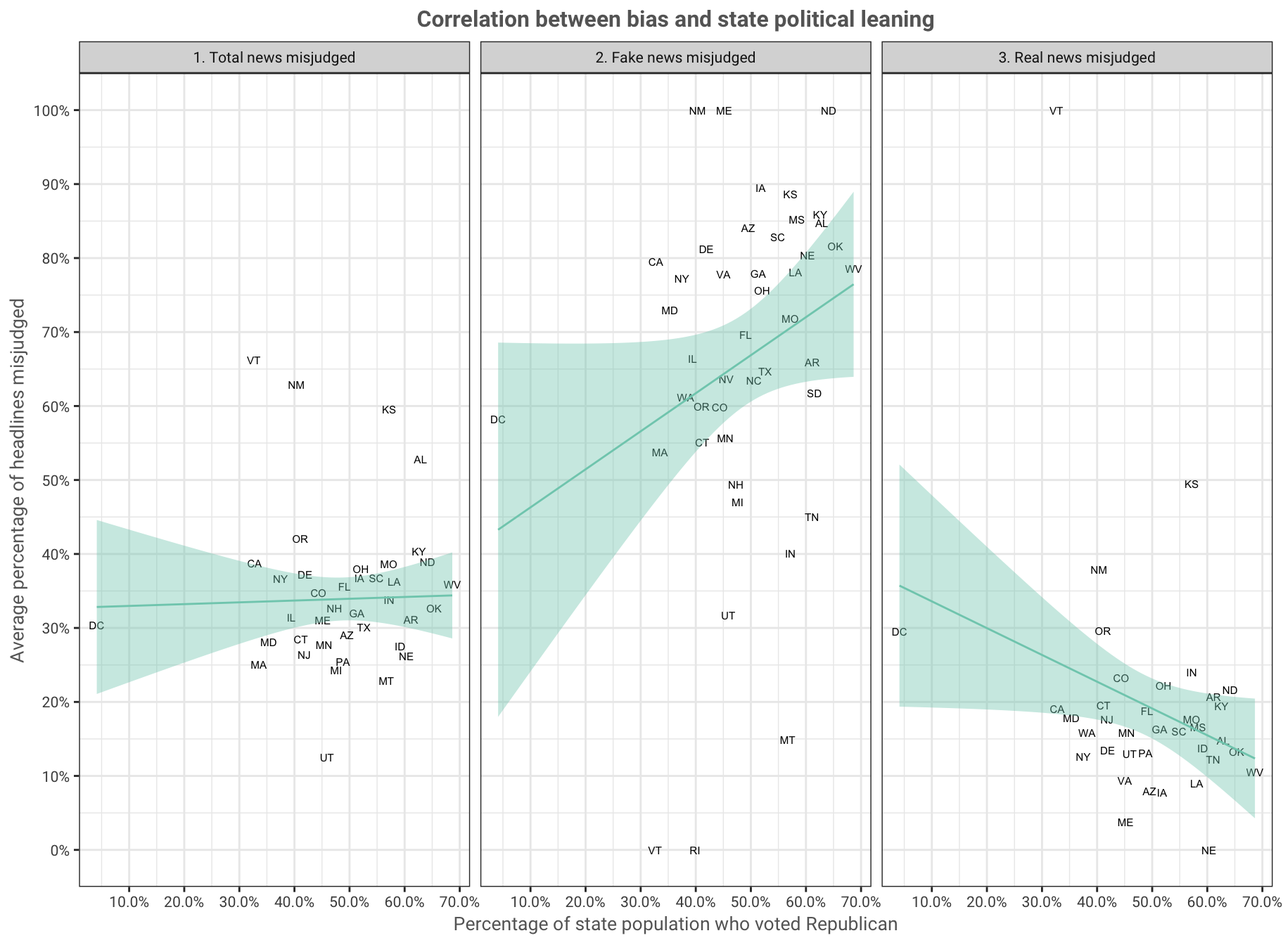
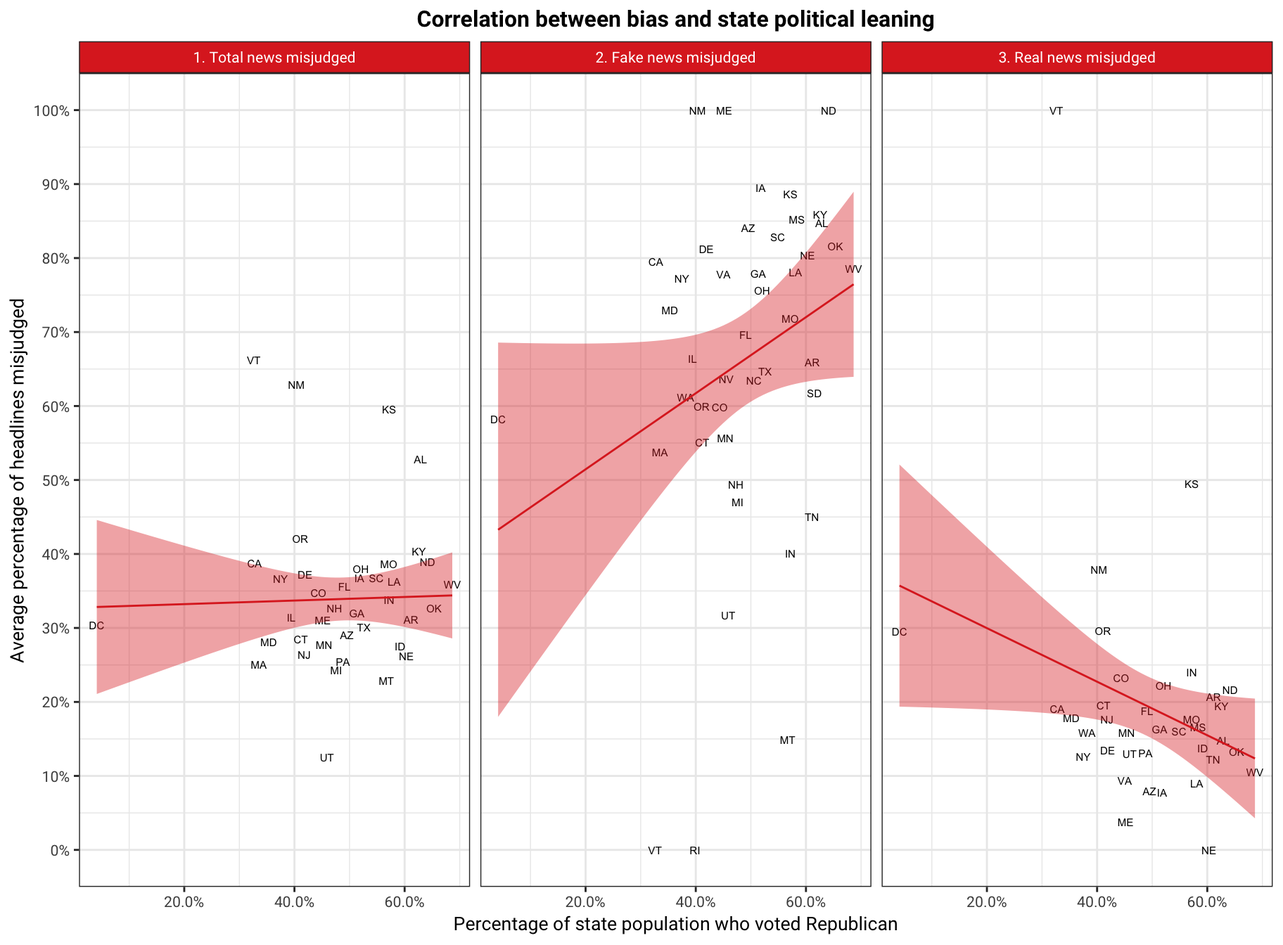
Add files via upload

diff --git a/docs/more_info_joan.html b/docs/more_info_joan.html
@@ -218,7 +218,7 @@ $(document).ready(function ()  {
 
     // establish options
     var options = {
-      selectors: "h1,h2,h3",
+      selectors: "h1,h2",
       theme: "bootstrap3",
       context: '.toc-content',
       hashGenerator: function (text) {
@@ -353,31 +353,32 @@ div.tocify {
 <!--
 Comments in HTML are like this! 
 -->
-<!--
-CREATE BASE MAP THAT SPLITS THE US INTO REGIONS FOR VISUALIZATION 1
-Adapted from: https://gis.stackexchange.com/questions/141181/how-to-create-a-us-map-in-r-with-separation-between-states-and-clear-labels
--->
-<!--
-DATA WRANGLING OF BUZZFEED SURVEY RESULTS
--->
-<div class="sourceCode"><pre class="sourceCode r"><code class="sourceCode r"><span class="co"># Select the needed columns for merging </span>
+<div class="sourceCode"><pre class="sourceCode r"><code class="sourceCode r"><span class="co"># select the needed columns for merging </span>
 raw_data &lt;-<span class="st"> </span>raw_data <span class="op">%&gt;%</span>
-<span class="st">  </span><span class="kw">select</span>(ID, HCAL_REGION1_Label_US, resp_gender, resp_age, DWD4, DWD5, DWD6, DWD1)
+<span class="st">  </span><span class="kw">select</span>(ID, HCAL_REGION1_Label_US, HADD_ZipCode_US, HCAL_AGGLO_CODE_US, HCAL_AGGLO_CODE_Label_US,  HCAL_STDREGION_4CODES_Label_US, DP_ETHNICITY_BAN, resp_gender,resp_age,US09KID,CurrentYear, DWD4, DWD5, GRID_DWD9_1_DWD9, GRID_DWD9_5_DWD9, DWD10, DWD6, DWD1, HCAL_REGION1_Label_US)
 
-<span class="co"># Inner join the 2 datasets</span>
+<span class="co"># inner join the 2 datasets</span>
 joined_data &lt;-<span class="st"> </span>headline_responses <span class="op">%&gt;%</span>
 <span class="st">  </span><span class="kw">inner_join</span>(raw_data, <span class="dt">by =</span> <span class="st">&quot;ID&quot;</span>)
 
-<span class="co"># Data wrangling for the joined datset</span>
+<span class="co"># rename the variables </span>
+<span class="co"># create column names that have meaning</span>
+<span class="co"># change the value of political parties</span>
 joined_data &lt;-<span class="st"> </span>joined_data <span class="op">%&gt;%</span>
-<span class="st">  </span><span class="co"># Select only instances where respondents recall a news headline</span>
-<span class="st">  </span><span class="kw">filter</span>(recalled <span class="op">==</span><span class="st"> &quot;yes&quot;</span>) <span class="op">%&gt;%</span>
-<span class="st">  </span><span class="co"># rename the variables</span>
 <span class="st">  </span><span class="kw">rename</span>( <span class="dt">US_states =</span> HCAL_REGION1_Label_US,
+          <span class="dt">US_cities =</span> HCAL_AGGLO_CODE_Label_US,
+          <span class="dt">US_regions =</span> HCAL_STDREGION_4CODES_Label_US,
+          <span class="dt">no_kids =</span> US09KID,
           <span class="dt">party_affiliation =</span> DWD4,
           <span class="dt">if_voted =</span> DWD5,
-          <span class="dt">political_party =</span> DWD1) <span class="op">%&gt;%</span>
-<span class="st">  </span><span class="co"># create new variables to reflect age group, political party, president choice</span>
+          <span class="dt">Facebook =</span> GRID_DWD9_1_DWD9,
+          <span class="dt">Twitter =</span> GRID_DWD9_5_DWD9,
+          <span class="dt">frequency_onlinenews_sharing =</span> DWD10,
+          <span class="dt">political_party =</span> DWD1)
+
+<span class="co"># creating new column that contains created variables</span>
+joined_data &lt;-<span class="st"> </span>joined_data <span class="op">%&gt;%</span>
+<span class="st">  </span><span class="co"># determine the different age groups</span>
 <span class="st">  </span><span class="kw">mutate</span>(<span class="dt">age_group =</span> <span class="kw">case_when</span>(resp_age <span class="op">%in%</span><span class="st"> </span><span class="kw">c</span>(<span class="dv">94</span><span class="op">:</span><span class="dv">108</span>) <span class="op">~</span><span class="st"> &quot;GREATEST GENERATION&quot;</span>,
                                resp_age <span class="op">%in%</span><span class="st"> </span><span class="kw">c</span>(<span class="dv">73</span><span class="op">:</span><span class="dv">93</span>) <span class="op">~</span><span class="st"> &quot;SILENT GENERATION&quot;</span>,
                                resp_age <span class="op">%in%</span><span class="st"> </span><span class="kw">c</span>(<span class="dv">72</span><span class="op">:</span><span class="dv">54</span>) <span class="op">~</span><span class="st"> &quot;BABY BOOMERS&quot;</span>,
@@ -389,6 +390,7 @@ joined_data &lt;-<span class="st"> </span>joined_data <span class="op">%&gt;%</s
                                  <span class="st">&quot;BABY BOOMERS&quot;</span>,
                                  <span class="st">&quot;GEN X&quot;</span>,
                                  <span class="st">&quot;MILLENIALS&quot;</span>),
+         <span class="co"># use case when to replace the row values of the political_party column</span>
          <span class="dt">political_party =</span> <span class="kw">case_when</span>(political_party <span class="op">==</span><span class="st"> &quot;1&quot;</span> <span class="op">~</span><span class="st"> &quot;Democrat&quot;</span>,
                                      political_party <span class="op">==</span><span class="st"> &quot;2&quot;</span> <span class="op">~</span><span class="st"> &quot;Republican&quot;</span>,
                                      political_party <span class="op">==</span><span class="st"> &quot;3&quot;</span> <span class="op">~</span><span class="st"> &quot;Independent&quot;</span>,
@@ -398,76 +400,22 @@ joined_data &lt;-<span class="st"> </span>joined_data <span class="op">%&gt;%</s
                                        <span class="st">&quot;Democrat&quot;</span>,
                                        <span class="st">&quot;Independent&quot;</span>,
                                        <span class="st">&quot;Other&quot;</span>),
-         <span class="dt">DWD6 =</span> <span class="kw">replace_na</span>(DWD6, <span class="dv">0</span>),
+         <span class="co"># change the row values of DWD6 to match the president names</span>
          <span class="dt">presidential_candidate =</span> <span class="kw">case_when</span>(DWD6 <span class="op">==</span><span class="st"> </span><span class="dv">1</span> <span class="op">~</span><span class="st"> &quot;Hillary Clinton&quot;</span>,
                                             DWD6 <span class="op">==</span><span class="st"> </span><span class="dv">2</span> <span class="op">~</span><span class="st"> &quot;Donald Trump&quot;</span>,
                                             DWD6 <span class="op">==</span><span class="st"> </span><span class="dv">3</span> <span class="op">~</span><span class="st"> &quot;Gary Johnson&quot;</span>,
                                             DWD6 <span class="op">==</span><span class="st"> </span><span class="dv">4</span> <span class="op">~</span><span class="st"> &quot;Jill Stein&quot;</span>,
-                                            DWD6 <span class="op">==</span><span class="st"> </span><span class="dv">5</span> <span class="op">~</span><span class="st"> &quot;Other&quot;</span>,
-                                            DWD6 <span class="op">==</span><span class="st"> </span><span class="dv">0</span> <span class="op">~</span><span class="st"> &quot;Did not vote&quot;</span>),
+                                            DWD6 <span class="op">==</span><span class="st"> </span><span class="dv">5</span> <span class="op">~</span><span class="st"> &quot;Other&quot;</span>),
          <span class="dt">presidential_candidate =</span> <span class="kw">fct_relevel</span>(presidential_candidate,
                                               <span class="st">&quot;Donald Trump&quot;</span>,
                                               <span class="st">&quot;Hillary Clinton&quot;</span>,
                                               <span class="st">&quot;Gary Johnson&quot;</span>,
                                               <span class="st">&quot;Jill Stein&quot;</span>,
-                                              <span class="st">&quot;Other&quot;</span>,
-                                              <span class="st">&quot;Did not vote&quot;</span>),
-         <span class="co"># Create variable wrong_or_not that determines if the respondent </span>
-         <span class="co"># judge a headline correctly. 1 for wrong, 0 for correct</span>
-         <span class="dt">wrong_or_not =</span> <span class="kw">ifelse</span>(accuracy_bool <span class="op">==</span><span class="st"> </span>is_fake, <span class="dv">1</span>, <span class="dv">0</span>),
-         <span class="co"># Create variable abbr for state abbreviation</span>
-         <span class="dt">abbr =</span> <span class="kw">state2abbr</span>(US_states),
-         <span class="co"># Format US_states to lower case</span>
-         <span class="dt">US_states =</span> <span class="kw">tolower</span>(US_states))
-
-<span class="co"># Create new dataframe with percentage headlines judged wrongly per respondent</span>
-avg_wrong_responses &lt;-<span class="st"> </span>joined_data <span class="op">%&gt;%</span>
-<span class="st">  </span><span class="co"># Calculate the percentage of wrong responses</span>
-<span class="st">  </span><span class="kw">group_by</span>(ID, US_states, abbr, resp_gender, 
-           age_group, presidential_candidate, political_party) <span class="op">%&gt;%</span>
-<span class="st">  </span><span class="kw">summarize</span>(<span class="dt">wrong_count =</span> <span class="kw">sum</span>(wrong_or_not),
-            <span class="dt">total =</span> <span class="kw">n</span>(),
-            <span class="dt">percentage_wrong =</span> wrong_count<span class="op">/</span>total)
-
-<span class="co"># Data wrangling of for Visualization 1: choropleth map</span>
-map_data &lt;-<span class="st"> </span>avg_wrong_responses <span class="op">%&gt;%</span>
-<span class="st">  </span><span class="kw">group_by</span>(US_states, abbr) <span class="op">%&gt;%</span>
-<span class="st">  </span><span class="kw">summarize</span>(<span class="dt">state_average =</span> <span class="kw">mean</span>(percentage_wrong),
-            <span class="dt">state_average_discrete =</span> <span class="kw">cut</span>(state_average,
-                                         <span class="dt">breaks =</span> <span class="kw">c</span>(<span class="fl">0.1</span>, <span class="fl">0.2</span>, <span class="fl">0.3</span>, <span class="fl">0.4</span>, <span class="fl">0.5</span>, <span class="dv">1</span>),
-                                         <span class="dt">labels =</span> <span class="kw">c</span>(<span class="st">&quot;10% - 20%&quot;</span>, <span class="st">&quot;20% - 30%&quot;</span>,
-                                                    <span class="st">&quot;30% - 40%&quot;</span>, <span class="st">&quot;40% - 50%&quot;</span>, <span class="st">&quot;Over 50%&quot;</span>))) <span class="op">%&gt;%</span>
-<span class="st">  </span><span class="kw">inner_join</span>(us.map, <span class="dt">by =</span> <span class="kw">c</span>(<span class="st">&quot;US_states&quot;</span> =<span class="st"> &quot;region&quot;</span>))
-
-<span class="co"># Data wrangling for Visualization 2: Plot of political bias by age group &amp; political party </span>
-<span class="co"># Group by age groups and political party</span>
-wrong_per_age &lt;-<span class="st"> </span>avg_wrong_responses <span class="op">%&gt;%</span>
-<span class="st">  </span><span class="co"># Calculate the percentage of wrong responses</span>
-<span class="st">  </span><span class="kw">group_by</span>(age_group, political_party) <span class="op">%&gt;%</span>
-<span class="st">  </span><span class="kw">summarize</span>(<span class="dt">mean_wrong =</span> <span class="kw">mean</span>(percentage_wrong),
-            <span class="dt">mean_wrong =</span> <span class="kw">round</span>(mean_wrong, <span class="dt">digits =</span> <span class="dv">2</span>))
-
-<span class="co">#Calculate the mean percentage wrong for each generation</span>
-perc_wrong_per_age &lt;-<span class="st"> </span>avg_wrong_responses <span class="op">%&gt;%</span>
-<span class="st">  </span><span class="kw">group_by</span>(age_group) <span class="op">%&gt;%</span>
-<span class="st">  </span><span class="kw">summarize</span>(<span class="dt">gen_wrong =</span> <span class="kw">mean</span>(percentage_wrong)) <span class="op">%&gt;%</span>
-<span class="st">  </span><span class="kw">mutate</span>(<span class="dt">gen_wrong =</span> <span class="kw">round</span>(gen_wrong, <span class="dt">digits =</span> <span class="dv">2</span>))</code></pre></div>
-<!--
-MAIN BODY STARTS HERE
--->
-<div id="introduction-of-dataset" class="section level2">
-<h2>Introduction of dataset</h2>
-<p>The survey was conducted as a collaboration between Buzzfeed and Ipsos on 3015 respondents. Each respondent was asked whether they recall any headlines from a mix of real and fake news.</p>
-<p>The fake headlines include:<br />
-* Pope Francis Shocks the World, Endorses Donald Trump for president, Releases Statement. * Donald Trump Sent His Own Plane To Transport 200 Stranded Marines. * FBI Agent Suspected in Hillary Email Leaks Found Dead in Apparent Murder Suicide. * Donald Trump Protestor Speaks Out: I was paid $3.500 to Protest Trump’s Rally.<br />
-* FBI Director Comey Just Put a Trump Sign On His Front Lawn.</p>
-<p>The real headlines include: * Melania Trump’s Girl-on-Girl Photos From Racy Shoot Revealed * Barbara Bush: “I don’t know how women can vote” for Trump * Donald Trump Says He’d ‘Absolutely’ Require Muslims to Register * Trump: “I Will Protect Our LGBTQ Citizens” * I Ran the C.I.A Now I’m Endorsing Hillary Clinton * Donald Trump on Refusing Presidential Salary: “I’m not taking it”</p>
-<p>They were then asked to determine if that headline is true or false. Out of all the respondents, 1909 of them recalled at least one headline. We analyzed their responses to determine what factors may have a correlation with people’s wrong perception of news.</p>
-</div>
-<div id="bias-by-geographic-region" class="section level2">
-<h2>Bias By Geographic Region</h2>
-<p>The following choropleth map gives an overview of how much an average person from each state misjudge news headlines (i.e. They consider fake news true or real news false). States are split up by their respective regions (in clockwise order from the top left: West, Midwest, Northeast, Southeast, and Southwest). Interestingly, Utah and Nebraska are the states where people seem to have the best perception of news accuracy. In contrast, the five states with the highest percentage of misjudged news are Kansas, New Mexico, Vermont and Alabama. These are a mixture of red and blue state, and each belonging to a different region.</p>
-<p>Clearly, no matter which region of the US we are looking at, people are prone to misjudge headlines they see. Thus, we decided to look deeper into the survey data and examine the individual characteristics of the respondents in an attempt to determine what type of person is more vulnerable to fake news.</p>
+                                              <span class="st">&quot;Other&quot;</span>))</code></pre></div>
+<div id="regions-in-the-usa-are-all-prone-to-misjudge-news-headlines" class="section level1">
+<h1>Regions in the USA are all prone to misjudge news headlines</h1>
+<p>The following choropleth map gives an overview of how much an average person from each state misjudge news headlines. States are split up by their respective regions (in clockwise order from the top left: West, Midwest, Northeast, Southeast, and Southwest). Interestingly, Utah is the state where people seem to have the best perception of news accuracy. In contrast, the five states with the highest percentage of misjudged news are Wyoming, Kansas, New Mexico, Vermont and Alabama. These are a mixture of red and blue state, and each belonging to one of the five different regions.<br />
+Clearly, no matter which region of the US we are looking at, people are prone to misjudge headlines they see. Thus, we decided to look deeper into the survey data and examine the individual characteristics of the respondents in an attempt to determine what type of person is more vulnerable to fake news.</p>
 <div class="sourceCode"><pre class="sourceCode r"><code class="sourceCode r"><span class="co"># Plot choropleth map</span>
 <span class="kw">ggplot</span>(map_data,  
        <span class="kw">aes</span>(<span class="dt">x =</span> long.transp, <span class="dt">y =</span> lat.transp), <span class="dt">colour =</span> <span class="st">&quot;white&quot;</span>) <span class="op">+</span><span class="st"> </span>
@@ -486,42 +434,62 @@ MAIN BODY STARTS HERE
     <span class="dt">axis.title =</span> <span class="kw">element_blank</span>(),
     <span class="dt">axis.ticks =</span> <span class="kw">element_blank</span>(),
     <span class="dt">axis.text =</span> <span class="kw">element_blank</span>())</code></pre></div>
-<p><img src="more_info_files/figure-html/unnamed-chunk-4-1.png" width="960" /></p>
+<p><img src="more_info_joan_files/figure-html/unnamed-chunk-4-1.png" width="960" /></p>
 </div>
-<div id="bias-by-political-party-affiliation-across-age-groups" class="section level2">
-<h2>Bias By Political Party Affiliation Across Age Groups</h2>
-<p>As the findings from this <a href="/index.html">scatterplot</a> suggested, the more strongly republican a state is, the more susceptible they were to believing fake news and the opposite applied to Democratic states. We sought to find out if there was any correlation between the percentage of headlines respondents got wrong and the political party they associated with (also taking into account non-Democratic and non-Republican parties) across different age groups.</p>
-<p>We selected data for the 1909 respondents who recalled at least one headline and split the respondents into 5 age groups. Out of these respondents, the greatest generation had the smallest population of 2 people (which is understandable given their age, but the small sample size makes any insight for this group not meaningful) and millenials was the biggest age group with 763 total respondents. The Silent generation had 101 respondents, the Baby Boomer generation had 595 people and lastly Gen X had 448 respondents.</p>
-<p>A comparison of total bias across the age groups confirmed that Republicans and respondents affiliated with “Other” political parties generally had the highest percentage of wrong responses across the age groups, followed by Democrats and, lastly, respondents self-identified as independent voters.</p>
-<div class="sourceCode"><pre class="sourceCode r"><code class="sourceCode r"><span class="co"># Create a plot that shows bias by Political party affiliation across age groups</span>
+<div id="fake-news-bias-by-political-party-affiliation-across-age-groups" class="section level1">
+<h1>Fake news Bias by Political Party Affiliation across age groups</h1>
+<p>As the findings from the choropleth map suggested, the more strongly republican a state is, the more susceptible they were to believing fake news and the opposite applied to Democratic states. We sought to find out if there was any correlation between the percentage of headlines respondents got wrong (i.e. either fake news believed to be true or real news believed to be false) and the political party they associated with (taking into account non-Democratic and non-Republican parties) across different age groups.</p>
+<p>Our dataset contained information for: 1619 Democrats<br />
+1465 Republicans<br />
+952 respondents affiliated with Other parties and<br />
+99 individuals affiliated with Independent parties.</p>
+<p>We selected data for the respondents who recalled seeing certain headlines and split the respondents into 5 age groups.<br />
+The greatest generation had the smallest population of 6 people and millenials was the biggest age group with 1899 total respondents. The Silent generation had 180 respondents, the Baby Boomer generation had 1134 people and lastly Gen X had 916 respondents.<br />
+A comparison of total bias across the age groups confirmed that Republicans and respondents affiliated with “Other” political Parties generally had the highest percentage of wrong responses across the age groups, followed by Democrats and lastly respondents affiliated with Independent Parties.</p>
+<div class="sourceCode"><pre class="sourceCode r"><code class="sourceCode r"><span class="co"># create a dataset</span>
+<span class="co"># filtered based on recalled news headlines</span>
+<span class="co"># create new columns for percentage of wrong responses</span>
+<span class="co"># grouped by age groups</span>
+avg_wrong_responses &lt;-<span class="st"> </span>joined_data <span class="op">%&gt;%</span>
+<span class="st">  </span><span class="kw">filter</span>(recalled <span class="op">==</span><span class="st"> &quot;yes&quot;</span>) <span class="op">%&gt;%</span>
+<span class="st">  </span><span class="co"># Calculate the percentage of wrong responses</span>
+<span class="st">  </span><span class="kw">mutate</span>(<span class="dt">wrong_or_not =</span> <span class="kw">ifelse</span>(accuracy_bool <span class="op">==</span><span class="st"> </span>is_fake, <span class="dv">1</span>, <span class="dv">0</span>)) <span class="op">%&gt;%</span>
+<span class="st">  </span><span class="kw">group_by</span>(ID, Weightvar) <span class="op">%&gt;%</span>
+<span class="st">  </span><span class="kw">mutate</span>(<span class="dt">wrong_count =</span> <span class="kw">sum</span>(wrong_or_not),
+         <span class="dt">total =</span> <span class="kw">n</span>(),
+         <span class="dt">percentage_wrong =</span> wrong_count<span class="op">/</span>total) <span class="op">%&gt;%</span>
+<span class="st">  </span><span class="kw">group_by</span>(age_group, political_party) <span class="op">%&gt;%</span>
+<span class="st">  </span><span class="kw">mutate</span>(<span class="dt">mean_wrong =</span> <span class="kw">mean</span>(percentage_wrong),
+         <span class="dt">mean_wrong =</span> <span class="kw">round</span>(mean_wrong, <span class="dt">digits =</span> <span class="dv">2</span>)) 
+
+<span class="co">#Calculate the mean percentage wrong for each generation</span>
+perc_wrong_per_age &lt;-<span class="st"> </span>avg_wrong_responses <span class="op">%&gt;%</span>
+<span class="st">  </span><span class="kw">group_by</span>(age_group) <span class="op">%&gt;%</span>
+<span class="st">  </span><span class="kw">summarize</span>(<span class="dt">gen_wrong =</span> <span class="kw">mean</span>(percentage_wrong)) <span class="op">%&gt;%</span>
+<span class="st">  </span><span class="kw">mutate</span>(<span class="dt">gen_wrong =</span> <span class="kw">round</span>(gen_wrong, <span class="dt">digits =</span> <span class="dv">2</span>))
+
+<span class="co"># create a plot that shows bias by Political party affiliation across age groups</span>
 <span class="kw">ggplot</span>() <span class="op">+</span>
-<span class="st">  </span><span class="kw">geom_col</span>(<span class="dt">data =</span> wrong_per_age, <span class="dt">position=</span><span class="st">&quot;dodge&quot;</span>, 
-           <span class="kw">aes</span>(<span class="dt">x =</span> age_group, <span class="dt">y =</span> mean_wrong, <span class="dt">fill =</span> political_party)) <span class="op">+</span>
-<span class="st">  </span><span class="kw">geom_boxplot</span>(<span class="dt">data =</span> perc_wrong_per_age, 
-               <span class="kw">aes</span>(<span class="dt">x =</span> age_group, <span class="dt">y =</span> gen_wrong)) <span class="op">+</span>
-<span class="st">  </span><span class="kw">geom_text</span>(<span class="dt">data =</span> perc_wrong_per_age, 
-            <span class="kw">aes</span>(<span class="dt">label =</span> <span class="kw">paste</span>(gen_wrong<span class="op">*</span><span class="dv">100</span>, <span class="st">&#39;%&#39;</span>),
-                <span class="dt">x =</span> age_group, <span class="dt">y =</span> gen_wrong <span class="op">+</span><span class="st"> </span><span class="fl">0.03</span>)) <span class="op">+</span>
-<span class="st">  </span><span class="kw">labs</span>(<span class="dt">x =</span> <span class="st">&quot;Age group&quot;</span>, <span class="dt">y =</span> <span class="st">&quot;Average percentage of headlines misjudged by respondents in each group&quot;</span>, 
+<span class="st">  </span><span class="kw">geom_col</span>(<span class="dt">data =</span> avg_wrong_responses, <span class="dt">position=</span><span class="st">&quot;dodge&quot;</span>, <span class="kw">aes</span>(<span class="dt">x =</span> age_group, <span class="dt">y =</span> mean_wrong, <span class="dt">fill =</span> political_party)) <span class="op">+</span>
+<span class="st">  </span><span class="kw">geom_boxplot</span>(<span class="dt">data =</span> perc_wrong_per_age, <span class="kw">aes</span>(<span class="dt">x =</span> age_group, <span class="dt">y =</span> gen_wrong)) <span class="op">+</span>
+<span class="st">  </span><span class="kw">geom_text</span>(<span class="dt">data =</span> perc_wrong_per_age, <span class="kw">aes</span>(<span class="dt">label =</span> gen_wrong, <span class="dt">x =</span> age_group, <span class="dt">y =</span> gen_wrong<span class="op">+</span><span class="fl">0.03</span>)) <span class="op">+</span>
+<span class="st">  </span><span class="kw">labs</span>(<span class="dt">x =</span> <span class="st">&quot;Age group&quot;</span>, <span class="dt">y =</span> <span class="st">&quot;Percentage of Wrong Responses&quot;</span>, 
        <span class="dt">title =</span> <span class="st">&quot;Bias by Political party affiliatiton across age groups&quot;</span>,
        <span class="dt">fill =</span> <span class="st">&quot;Respondent&#39;s Political Party&quot;</span>) <span class="op">+</span>
 <span class="st">  </span><span class="kw">scale_fill_manual</span>(<span class="dt">values =</span> <span class="kw">c</span>(<span class="st">&quot;Red&quot;</span>,<span class="st">&quot;Blue&quot;</span>,<span class="st">&quot;Purple&quot;</span>,<span class="st">&quot;Gray&quot;</span>)) <span class="op">+</span>
-<span class="st">  </span><span class="kw">scale_y_continuous</span>(<span class="dt">labels =</span> percent, <span class="dt">breaks=</span><span class="kw">seq</span>(<span class="dv">0</span>, <span class="dv">1</span>, .<span class="dv">1</span>)) <span class="op">+</span>
 <span class="st">  </span><span class="co"># change the title and axes size</span>
-<span class="st">  </span><span class="kw">theme_bw</span>() <span class="op">+</span>
-<span class="st">  </span><span class="kw">theme</span>(<span class="dt">text =</span> <span class="kw">element_text</span>(<span class="dt">size =</span> <span class="dv">10</span>, <span class="dt">family =</span> <span class="st">&quot;Roboto&quot;</span>),
+<span class="st">  </span><span class="kw">theme</span>(<span class="dt">text =</span> <span class="kw">element_text</span>(<span class="dt">size =</span> <span class="dv">10</span>),
         <span class="dt">plot.title =</span> <span class="kw">element_text</span>(<span class="dt">hjust =</span> <span class="fl">0.5</span>, <span class="dt">size =</span> <span class="dv">12</span>, <span class="dt">face =</span> <span class="st">&quot;bold&quot;</span>),
-        <span class="dt">legend.text=</span><span class="kw">element_text</span>(<span class="dt">size =</span> <span class="dv">8</span>, <span class="dt">family =</span> <span class="st">&quot;Roboto&quot;</span>),
         <span class="dt">axis.title.x =</span> <span class="kw">element_text</span>(<span class="dt">size =</span> <span class="dv">12</span>),
         <span class="dt">axis.title.y =</span> <span class="kw">element_text</span>(<span class="dt">size =</span> <span class="dv">12</span>))</code></pre></div>
-<p><img src="more_info_files/figure-html/unnamed-chunk-5-1.png" width="960" /></p>
-<p>The reason why Republicans had such high bias is probably because most of the headlines posed by the survey is pro-Donald Trump and anti-Hillary Clinton, regardless of whether the headline are fake news or not. This does raise a question toward the reliability of the survey conducted by Buzzfeed! Because of this bias in the survey question, Trump supporters were likely to believe most of the news to be true and Democrats were more likely to be dubious. However, independent voters and individuals associated with other parties were not in support of either Donald Trump of Hillary Clinton. It seems that they are more likely to be swayed in the pro-Trump, anti-Hillary direction.</p>
-<p>The values indicated on the plot also show the average percentage of headlines wrongly perceived for each age group and we can see that bias was high for the older age groups, then became low for the middle lying age groups, and then went high again for the younger groups. However, the data for the Greatest Generation must be taken with a grain of salt, given that only 2 respondents recalled any headlines.</p>
-<p>Some studies have suggested that a reason for this could be social media usage across the different age groups. According to Statista, Millenials are the largest social media users with 88% of Millennials using some form of social media platform everyday. Only 37% of individuals above 65 years use social media and this could mean that most of them are not well informed about current political affairs and so become more susceptible to believing nearly anything they hear. However, Millenials use too much social media and chances of them accessing fake news are highly likely.</p>
-<p>We further look into the differences, if any exists, between people who believed in fake news vs people who believed in real news and whom they voted for in the 2016 presidential elections.</p>
+<p><img src="more_info_joan_files/figure-html/unnamed-chunk-5-1.png" width="960" /></p>
+<p>The reason why Republicans had such high bias is probably because most of the headlines involving information on Donald Trump were mostly positive and those involving Hillary clinton were negative, hence Trump supporters were most likely to believe most of the news to be true and Democrats were most likely to be dubious. However, individuals associated with Other and independent parties and were not in support of either Donald Trump of Hillary Clinton were then more likely to be swayed in the Republican direction if they had no strong beliefs on whether or not the news was accurate.<br />
+The values indicated on the plot show the average percentage wrong for each age group and we can see that bias was high for the older age groups, then became low for the middle lying age groups, and then went high again for the younger groups.<br />
+We believe that the main cause of this is social media usage across the different age groups. According to Statista, Millenials are the largest social media users with 88% of Millennials using some form of social media platform everyday. Only 37% of individuals above 65 years use social media and this could mean that most of them are not well informed about current political affairs and so become more susceptible to believing nearly anything they hear. However, Millenials use too much social media and chances of them accessing fake news are highly likely.<br />
+We further look into the differences, if any exists, between people who believed in fake news vs people who believed in real news and whom they voted for in the 2016 presidential elections.</p>
 </div>
-<div id="fake-news-presidential-elections" class="section level2">
-<h2>Fake News &amp; Presidential Elections</h2>
+<div id="fake-news-presidential-elections" class="section level1">
+<h1>Fake News &amp; Presidential Elections</h1>
 <p>“Does believing in Fake news being true affect the decision one made in electing presidents in the election of 2016?” is a question that we are interested to answer in this section. In answering this question, we have plotted a bar plot that shows which presidential candidate ended up having the most votes in the 2016 presidential elections based on people who recalled seeing the headlines before and believed the news to be accurate whether the headline was real or fake. Thus, our plot is faceted based on whether the news is fake or not so that we can see if fake news made any impact on the presidential candidate that was elected.</p>
 <div class="sourceCode"><pre class="sourceCode r"><code class="sourceCode r"><span class="co"># create a dataset</span>
 <span class="co"># filtered based on recalled news and being accurate</span>
@@ -542,8 +510,7 @@ presidential_data &lt;-<span class="st"> </span>joined_data <span class="op">%&g
 <span class="st">  </span><span class="co"># red - Republic, blue - Democrats</span>
 <span class="st">  </span><span class="co"># goldenrod4 - Libertarian party, darkolivegreen4 - green party</span>
 <span class="st">  </span><span class="co"># gray - others</span>
-<span class="st">  </span><span class="co"># steelblue - didn&#39;t vote</span>
-<span class="st">  </span><span class="kw">scale_fill_manual</span>(<span class="dt">values =</span> <span class="kw">c</span>(<span class="st">&quot;Red&quot;</span>, <span class="st">&quot;Blue&quot;</span>, <span class="st">&quot;goldenrod4&quot;</span>, <span class="st">&quot;darkolivegreen4&quot;</span>, <span class="st">&quot;gray&quot;</span>, <span class="st">&quot;steelblue&quot;</span>)) <span class="op">+</span>
+<span class="st">  </span><span class="kw">scale_fill_manual</span>(<span class="dt">values =</span> <span class="kw">c</span>(<span class="st">&quot;Red&quot;</span>, <span class="st">&quot;Blue&quot;</span>, <span class="st">&quot;goldenrod4&quot;</span>, <span class="st">&quot;darkolivegreen4&quot;</span>, <span class="st">&quot;gray&quot;</span>)) <span class="op">+</span>
 <span class="st">  </span><span class="co"># change the facet labels to fake news and real news</span>
 <span class="st">  </span><span class="kw">facet_grid</span>(. <span class="op">~</span><span class="st"> </span>is_fake, <span class="dt">labeller =</span> <span class="kw">labeller</span>(<span class="dt">is_fake =</span> <span class="kw">c</span>(<span class="dt">False =</span> <span class="st">&quot;True news&quot;</span>, <span class="dt">True =</span> <span class="st">&quot;False news&quot;</span>))) <span class="op">+</span>
 <span class="st">  </span><span class="kw">labs</span>(<span class="dt">title =</span> <span class="st">&quot;Distribution of votes among presidential candidates&quot;</span>, <span class="dt">x =</span> <span class="st">&quot;Presidential candidates&quot;</span>, <span class="dt">y =</span> <span class="st">&quot;Number of people&#39;s votes&quot;</span>) <span class="op">+</span>
@@ -552,7 +519,7 @@ presidential_data &lt;-<span class="st"> </span>joined_data <span class="op">%&g
         <span class="dt">plot.title =</span> <span class="kw">element_text</span>(<span class="dt">hjust =</span> <span class="fl">0.5</span>, <span class="dt">size =</span> <span class="dv">12</span>, <span class="dt">face =</span> <span class="st">&quot;bold&quot;</span>),
         <span class="dt">axis.title.x =</span> <span class="kw">element_text</span>(<span class="dt">size =</span> <span class="dv">12</span>),
         <span class="dt">axis.title.y =</span> <span class="kw">element_text</span>(<span class="dt">size =</span> <span class="dv">12</span>))</code></pre></div>
-<p><img src="more_info_files/figure-html/unnamed-chunk-6-1.png" width="960" /></p>
+<p><img src="more_info_joan_files/figure-html/unnamed-chunk-6-1.png" width="960" /></p>
 <p>From the bar plot above, we see that for news headlines that were real and people were able to identify the news as accurate, Hillary Clinton had the most votes compared to the rest of the candidates. We also see that Donald Trump and Hillary Clinton were the top two leading presidential candidates with Hillary Clinton having only 17 more votes compared to Donald Trump.<br />
 However, for the news headlines that were fake and people identified these headlines as accurate, Donald Trump ended up having the most votes compared to the rest of the presidential candidates. Even though Donald Trump and Hillary Clinton were the top two leading presidential candidates with more votes, there is a huge difference between the two candidates with Donald Trump having more than twice the votes that Hillary Clinton had.<br />
 The Fake news headlines include:<br />

diff --git a/docs/index.html b/docs/index.html
@@ -247,7 +247,7 @@ $(document).ready(function () {
 
 <h1 class="title toc-ignore">My Final Project</h1>
 <h4 class="author"><em>Melanie N, Ratie, Joan K</em></h4>
-<h4 class="date"><em>Last updated on 2018-12-18</em></h4>
+<h4 class="date"><em>Last updated on 2018-12-19</em></h4>
 
 </div>
 
@@ -255,10 +255,16 @@ $(document).ready(function () {
 <!--
 Comments in HTML are like this! 
 -->
+<div class="figure">
+<img src="fakenewsphoto.png" alt="Source: Krista Kennell / Stone / Catwalker / Shutterstock / The Atlantic" width="100%" />
+<p class="caption">
+Source: Krista Kennell / Stone / Catwalker / Shutterstock / The Atlantic
+</p>
+</div>
 <p>After the 2016 Presidential Election, the term “fake news” spread across America like wildfire. Craig Silverman, Buzzfeed’s media editor, was the first to notice the steady flow of news with zero ounce of truth coming from Eastern Europe, all centred around the election.<a href="#fn1" class="footnoteRef" id="fnref1"><sup>1</sup></a> Disturbingly, fake news might have influenced the outcome of the election. This is why we set out to determine: Who are the most vulnerable to fake news?</p>
 <p>We drew upon raw data from a 2016 survey jointly conducted by Buzzfeed and Ipsos on 3,015 adult in the US.<a href="#fn2" class="footnoteRef" id="fnref2"><sup>2</sup></a> Respondents were randomly asked whether they recall some headlines containing a mix of fake and real news. If they do, they were then asked to categorize the news as real or fake.</p>
 <p>We calculated the percentage of headlines that an average person from each state misjudged (i.e. either fake news believed as true or real news believed as false). This percentage varies greatly by state and does not really follow a geographical or political pattern. However, when data is split into fake news and real news, it appears that the more strongly republican a state is (as indicated by the percentage of its population who voted red in the 2016 presidential election), the more likely people there believe in fake news. On the contrary, the more strongly democratic a state is, the more skeptical people tend to be even when it comes to real news!</p>
-<p>If you’re interested in the numbers beyond state average, click here to read more about how perception of fake news differs by age group, political affiliation, and candidate choice!</p>
+<p>If you’re interested in the numbers beyond state average, click <a href="/more_info.html">here</a>. Accessed 17 Dec. 2018.] to read more about how perception of fake news differs by age group, political affiliation, and candidate choice!</p>
 <div class="sourceCode"><pre class="sourceCode r"><code class="sourceCode r"><span class="kw">ggplot</span>(wrangled_data_<span class="dv">4</span>, 
        <span class="kw">aes</span>(<span class="dt">x =</span> percentage_rep, <span class="dt">y =</span> state_average,
            <span class="dt">text =</span> <span class="kw">paste</span>(<span class="st">&#39;State: &#39;</span>, HCAL_REGION1_Label_US, 
@@ -267,9 +273,10 @@ Comments in HTML are like this!
                         <span class="st">&#39;%</span><span class="ch">\n</span><span class="st">Percentage voted Republican 2016: &#39;</span>,
                         percentage_rep<span class="op">*</span><span class="dv">100</span>,<span class="st">&#39;%&#39;</span>),<span class="dt">group =</span> <span class="dv">1</span>)) <span class="op">+</span>
 <span class="st">  </span><span class="kw">geom_text</span>(<span class="dt">label =</span> wrangled_data_<span class="dv">4</span><span class="op">$</span>abbr, <span class="dt">size =</span> <span class="dv">2</span>, <span class="dt">check_overlap =</span> T) <span class="op">+</span>
-<span class="st">  </span><span class="kw">geom_smooth</span>(<span class="dt">method =</span> <span class="st">&quot;lm&quot;</span>, <span class="dt">color =</span> <span class="st">&quot;#7fcdbb&quot;</span>, <span class="dt">size =</span> <span class="fl">0.5</span>, <span class="dt">fill =</span> <span class="st">&quot;#7fcdbb&quot;</span>) <span class="op">+</span>
+<span class="st">  </span><span class="kw">geom_smooth</span>(<span class="dt">method =</span> <span class="st">&quot;lm&quot;</span>, <span class="dt">color =</span> <span class="st">&quot;#de2d26&quot;</span>, <span class="dt">size =</span> <span class="fl">0.5</span>, 
+              <span class="dt">fill =</span> <span class="st">&quot;#de2d26&quot;</span>) <span class="op">+</span>
 <span class="st">  </span><span class="kw">scale_y_continuous</span>(<span class="dt">labels =</span> percent, <span class="dt">breaks=</span><span class="kw">seq</span>(<span class="dv">0</span>, <span class="dv">1</span>, .<span class="dv">1</span>)) <span class="op">+</span>
-<span class="st">  </span><span class="kw">scale_x_continuous</span>(<span class="dt">labels =</span> percent, <span class="dt">breaks=</span><span class="kw">seq</span>(<span class="dv">0</span>, <span class="dv">1</span>, .<span class="dv">1</span>)) <span class="op">+</span>
+<span class="st">  </span><span class="kw">scale_x_continuous</span>(<span class="dt">labels =</span> percent, <span class="dt">breaks=</span><span class="kw">seq</span>(<span class="dv">0</span>, <span class="dv">1</span>, .<span class="dv">2</span>)) <span class="op">+</span>
 <span class="st">  </span><span class="kw">labs</span>(<span class="dt">title =</span> <span class="st">&#39;Correlation between bias and state political leaning&#39;</span>,
        <span class="dt">x =</span> <span class="st">&#39;Percentage of state population who voted Republican&#39;</span>,
        <span class="dt">y =</span> <span class="st">&#39;Average percentage of headlines misjudged&#39;</span>) <span class="op">+</span>
@@ -277,8 +284,10 @@ Comments in HTML are like this!
 <span class="st">  </span><span class="kw">scale_fill_brewer</span>(<span class="dt">palette =</span> <span class="st">&quot;YlGnBu&quot;</span>) <span class="op">+</span>
 <span class="st">  </span><span class="kw">theme_bw</span>() <span class="op">+</span>
 <span class="st">  </span><span class="kw">theme</span>(
-    <span class="dt">text =</span> <span class="kw">element_text</span>(<span class="dt">size =</span> <span class="dv">10</span>, <span class="dt">family =</span> <span class="st">&quot;Roboto&quot;</span>, <span class="dt">color =</span> <span class="st">&quot;#666666&quot;</span>),
-    <span class="dt">plot.title =</span> <span class="kw">element_text</span>(<span class="dt">hjust =</span> <span class="fl">0.5</span>, <span class="dt">size =</span> <span class="dv">12</span>, <span class="dt">face =</span> <span class="st">&quot;bold&quot;</span>))</code></pre></div>
+    <span class="dt">text =</span> <span class="kw">element_text</span>(<span class="dt">size =</span> <span class="dv">10</span>, <span class="dt">family =</span> <span class="st">&quot;Roboto&quot;</span>),
+    <span class="dt">plot.title =</span> <span class="kw">element_text</span>(<span class="dt">hjust =</span> <span class="fl">0.5</span>, <span class="dt">size =</span> <span class="dv">12</span>, <span class="dt">face =</span> <span class="st">&quot;bold&quot;</span>),
+    <span class="dt">strip.background =</span><span class="kw">element_rect</span>(<span class="dt">fill=</span><span class="st">&quot;#de2d26&quot;</span>),
+    <span class="dt">strip.text =</span> <span class="kw">element_text</span>(<span class="dt">colour =</span> <span class="st">&#39;white&#39;</span>))</code></pre></div>
 <p><img src="index_files/figure-html/unnamed-chunk-3-1.png" width="912" /></p>
 <div class="footnotes">
 <hr />
